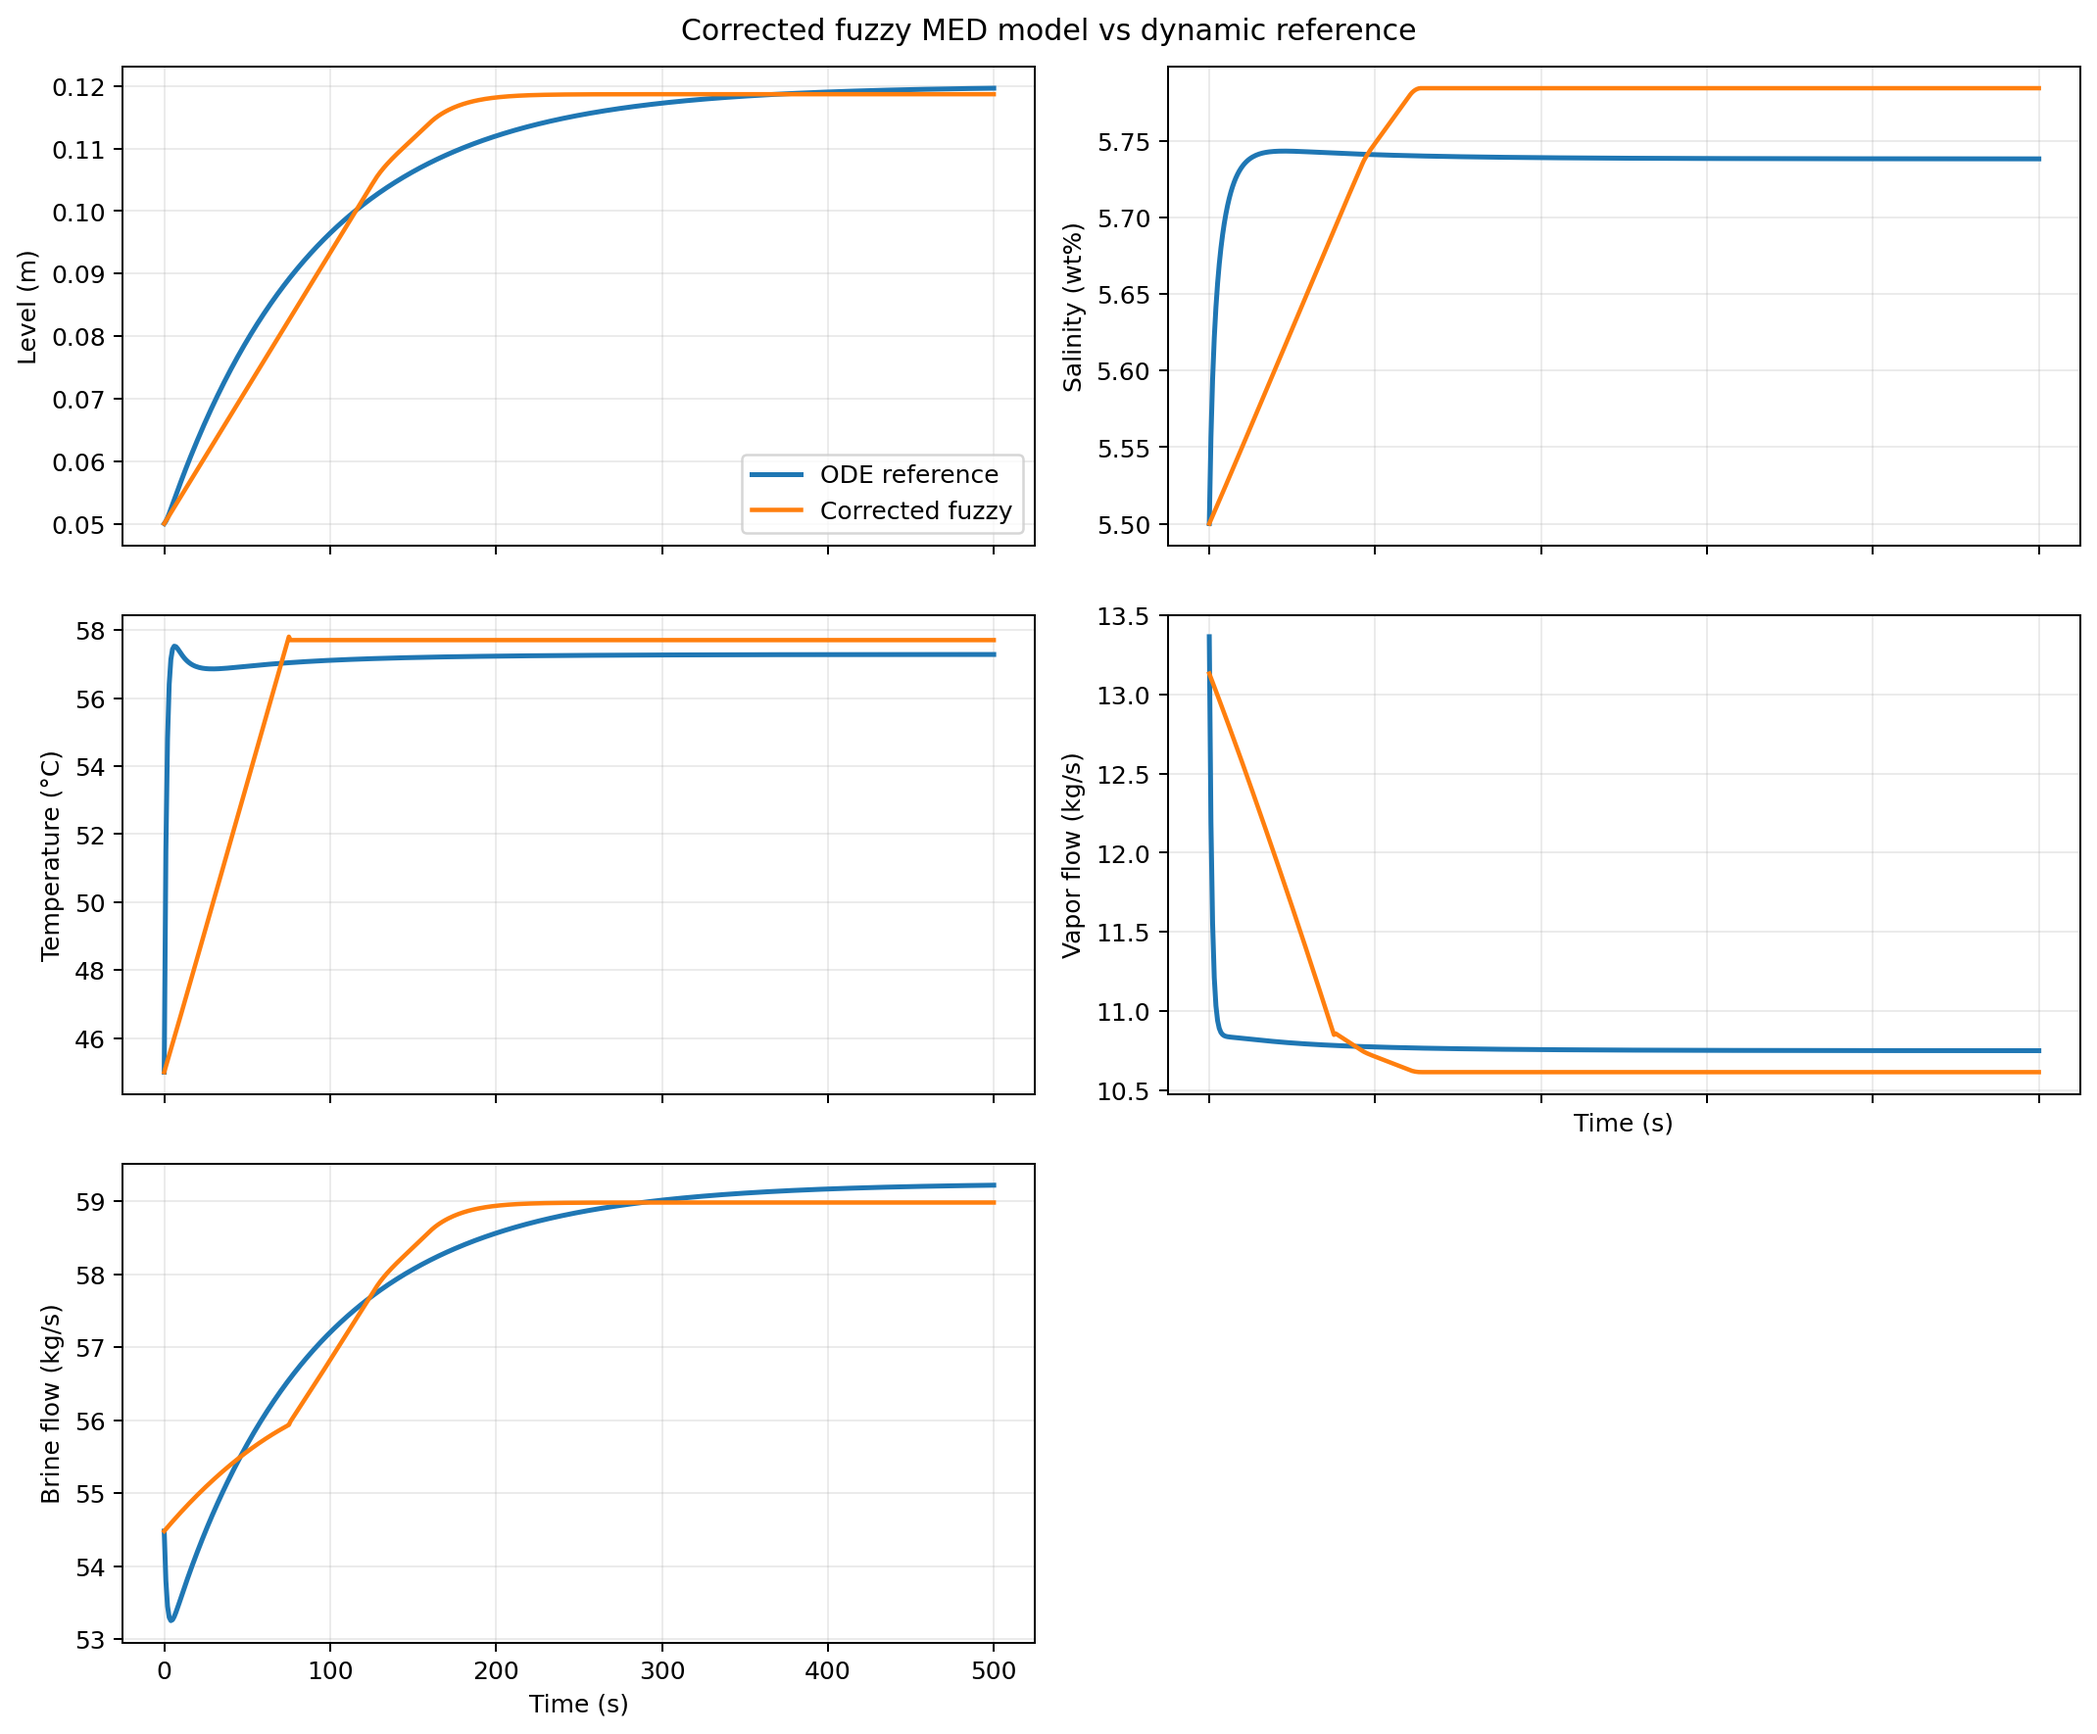
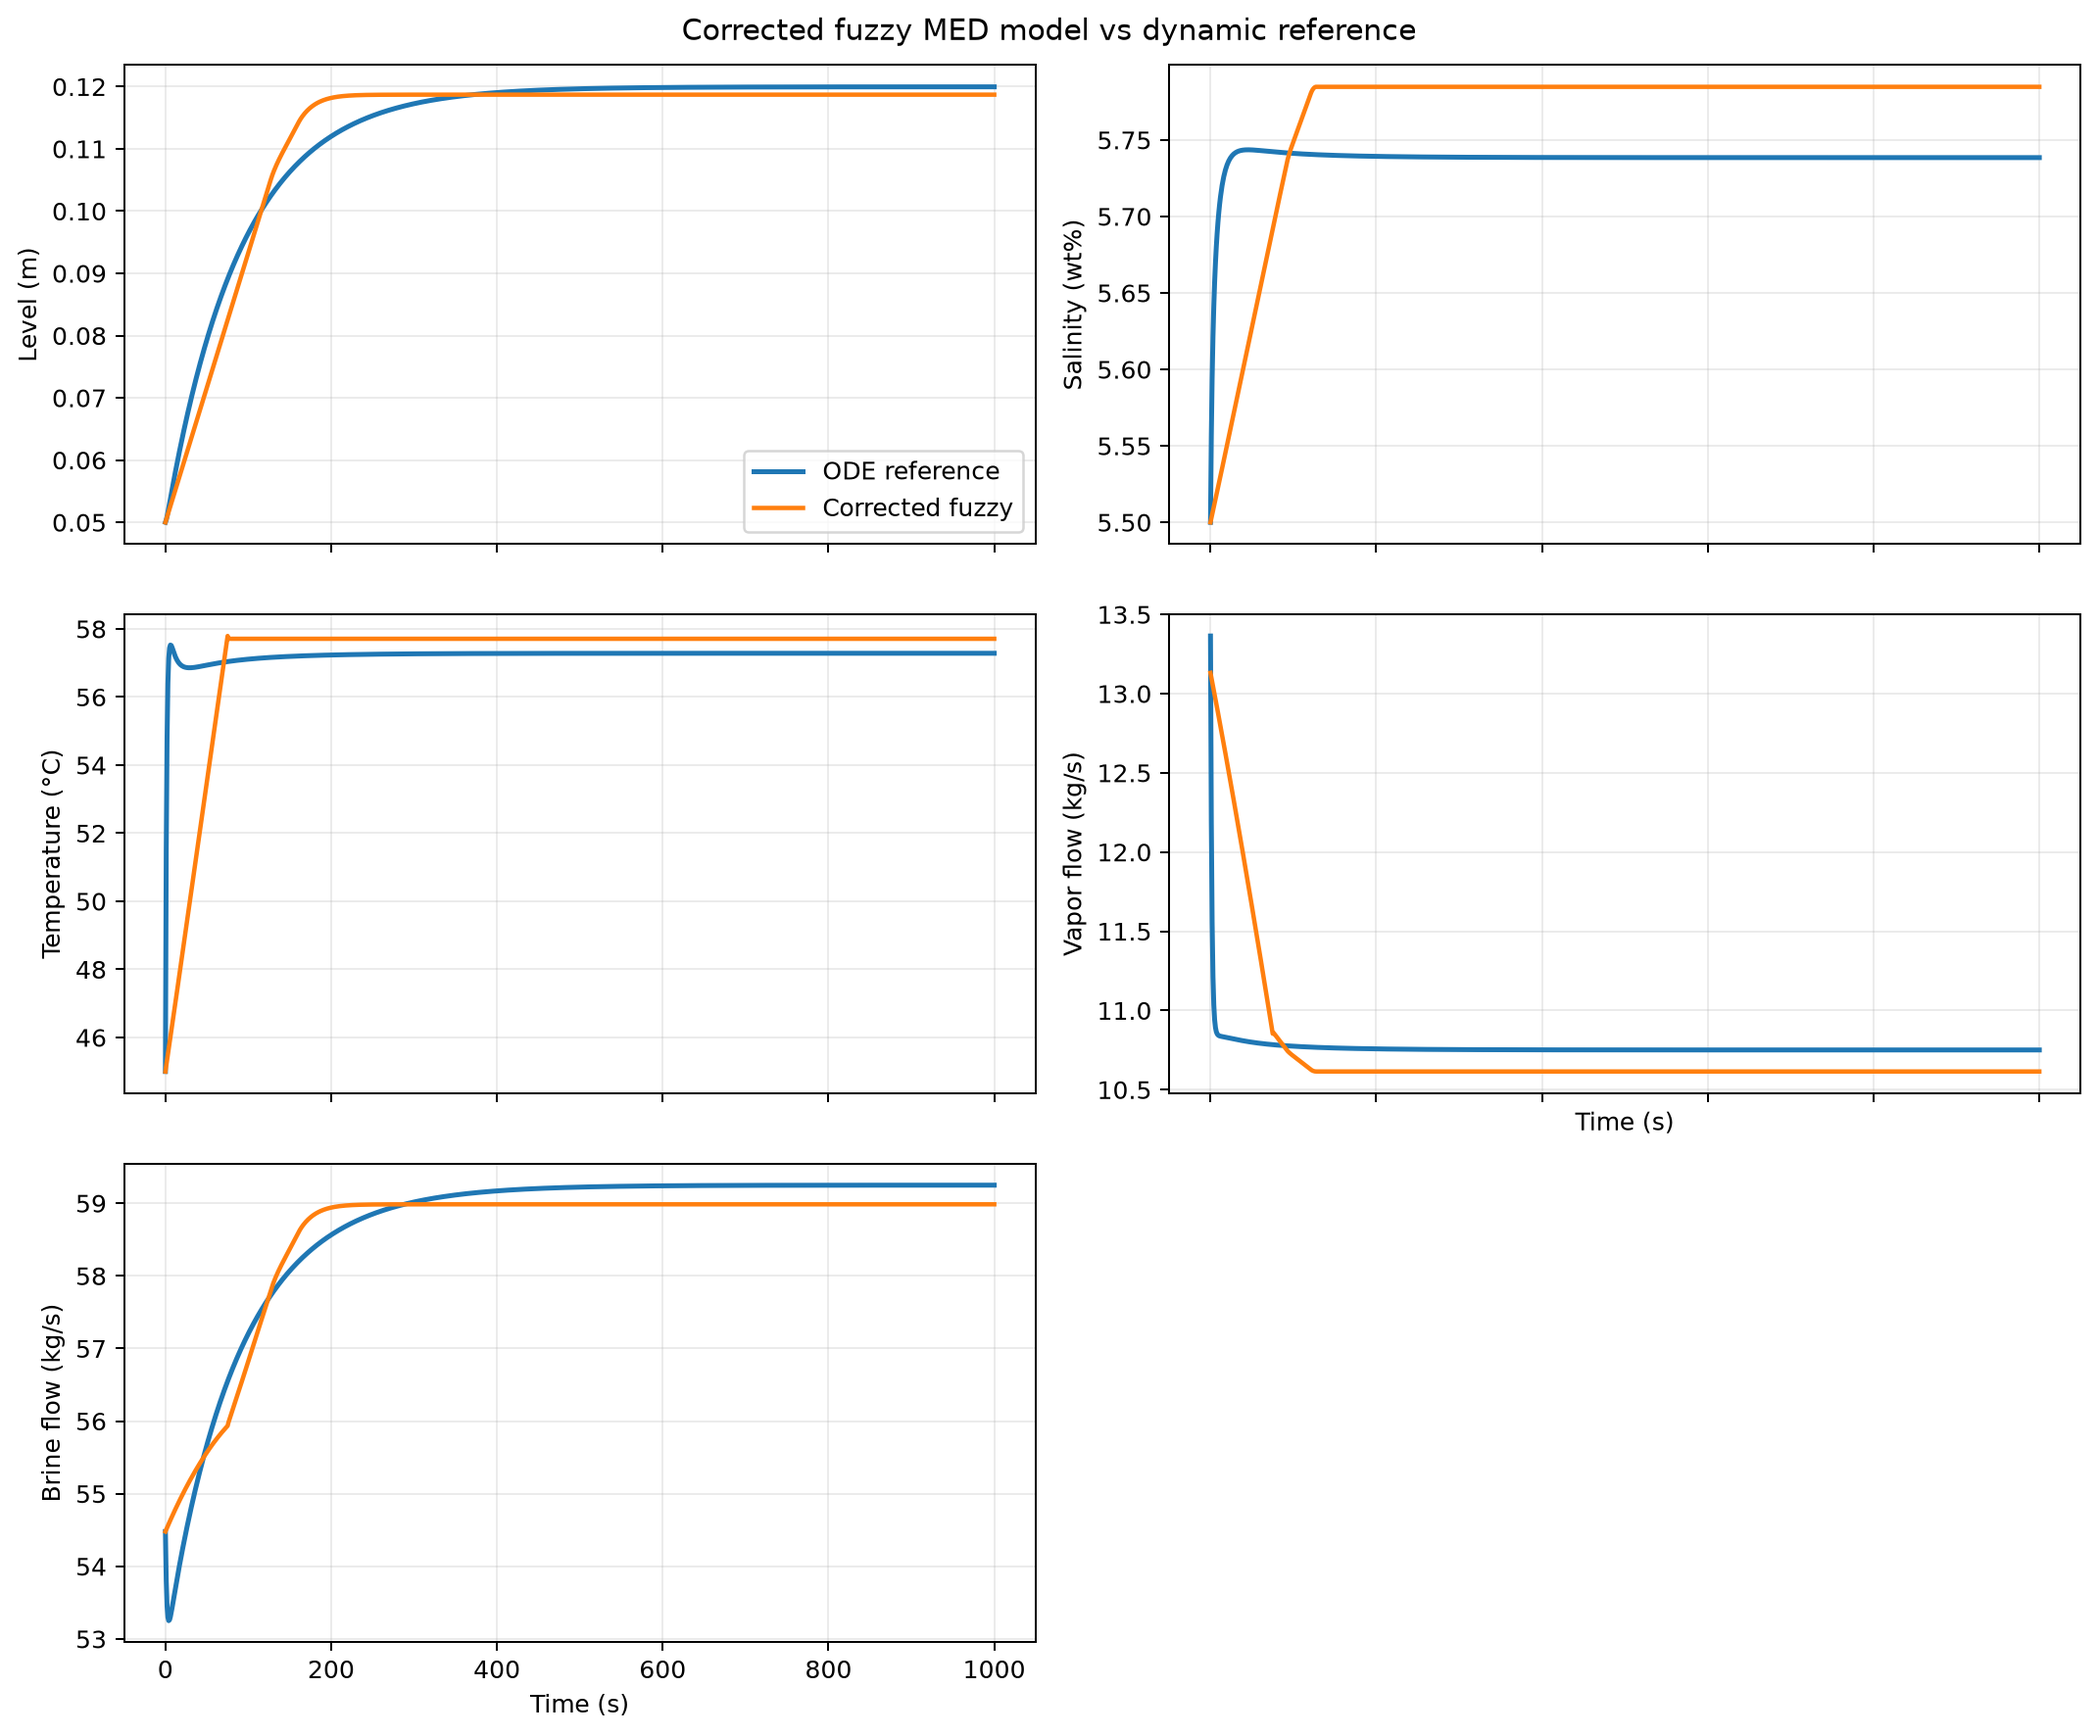
add some comments

diff --git a/tests/test_fuzzy_state_model.py b/tests/test_fuzzy_state_model.py
@@ -1,3 +1,11 @@
+import sys
+from pathlib import Path
+
+FILE_PATH = Path(__file__).resolve()
+ROOT_DIR = next(p for p in FILE_PATH.parents if p.name == "fuuzy_expert_evaporator")
+if str(ROOT_DIR) not in sys.path:
+    sys.path.insert(0, str(ROOT_DIR))
+    
 import numpy as np
 import pytest
 
@@ -10,8 +18,8 @@ from more_accurate_model.problem import Params
 
 
 def make_case(step=None):
-    count = 500
-    time = np.linspace(0.0, 500.0, count)
+    count = 1000
+    time = np.linspace(0.0, 1000.0, count)
     steam = np.full(count, 20.0)
     feed = np.full(count, 40.0)
     feed_temperature = np.full(count, 20.0)

diff --git a/more_accurate_model/fuzzy_model/validate_fuzzy_model.py b/more_accurate_model/fuzzy_model/validate_fuzzy_model.py
@@ -1,5 +1,3 @@
-"""Compare the corrected fuzzy model with the physical ODE baseline."""
-
 import csv
 import sys
 from pathlib import Path
@@ -22,8 +20,8 @@ from more_accurate_model.solver import evaporator_ode_solver
 
 
 def build_case():
-    count = 500
-    time = np.linspace(0.0, 500.0, count)
+    count = 1000
+    time = np.linspace(0.0, 1000.0, count)
     steam = np.full(count, 20.0)
     feed = np.full(count, 40.0)
     feed_temperature = np.full(count, 20.0)

diff --git a/more_accurate_model/fuzzy_model/fuzzy_blocks/salt_update_block.py b/more_accurate_model/fuzzy_model/fuzzy_blocks/salt_update_block.py
@@ -1,15 +1,8 @@
-"""Numerical state update for the fuzzy salinity derivative."""
-
-import numpy as np
-
-
 def salt_update(dx_dt, last_x, dt=1.0):
     if dt <= 0.0:
         raise ValueError("dt must be positive.")
-    return float(np.clip(last_x + dt * dx_dt, 4.0, 8.0))
+    return last_x + dt * dx_dt
 
 
 def salt_updte(dx_dt, last_x, dt=1.0):
-    """Backward-compatible alias for the original misspelled function."""
-
     return salt_update(dx_dt, last_x, dt)

diff --git a/more_accurate_model/fuzzy_model/fuzzy_problem.py b/more_accurate_model/fuzzy_model/fuzzy_problem.py
@@ -1,5 +1,3 @@
-"""Runnable example for the fuzzy evaporator model."""
-
 import sys
 from pathlib import Path
 
@@ -40,7 +38,6 @@ def main(show_plots=True):
         previous_brine_temp=t_bin,
     )
 
-    # Uncomment an assignment to create a 20% step at t = 250 s.
     for sample in range(n_eval // 2, n_eval):
         change_percentage = 0.10
         # w_s[sample] = 20.0 * (1.0 + change_percentage)

diff --git a/more_accurate_model/fuzzy_model/rule_activation.py b/more_accurate_model/fuzzy_model/rule_activation.py
@@ -15,8 +15,6 @@ def calculate_fuzzy_block_output(
     rule_table,
     mod="centroid",
 ):
-    """Evaluate a two-input Mamdani block and return a physical crisp value."""
-
     if len(rule_table) != 5 or any(len(row) != 5 for row in rule_table):
         raise ValueError("rule_table must be a 5 x 5 table.")
     unknown = {label for row in rule_table for label in row} - set(LABELS)

diff --git a/more_accurate_model/fuzzy_model/normaliziation.py b/more_accurate_model/fuzzy_model/normaliziation.py
@@ -1,11 +1,3 @@
-"""Scaling helpers for the normalized fuzzy universe ``[-5, 5]``.
-
-The first item in every range is the operating point, not necessarily the
-midpoint of the lower and upper bounds.  Scaling each side independently keeps
-the operating point exactly at zero and maps both physical bounds exactly to
-the fuzzy-universe bounds.
-"""
-
 import numpy as np
 
 

diff --git a/more_accurate_model/fuzzy_model/fuzzy_blocks/level_update_block.py b/more_accurate_model/fuzzy_model/fuzzy_blocks/level_update_block.py
@@ -1,9 +1,5 @@
-"""Numerical state update for the fuzzy level derivative."""
-
-import numpy as np
-
-
 def level_update(dl_dt, last_l, dt=1.0):
     if dt <= 0.0:
         raise ValueError("dt must be positive.")
-    return float(np.clip(last_l + dt * dl_dt, 0.0, 0.22))
+    return float(last_l + dt * dl_dt)
+    # return float(np.clip(last_l + dt * dl_dt, 0.0, 0.22))

diff --git a/more_accurate_model/fuzzy_model/fuzzy_blocks/temperature_update_block.py b/more_accurate_model/fuzzy_model/fuzzy_blocks/temperature_update_block.py
@@ -1,9 +1,4 @@
-"""Numerical state update for the fuzzy temperature derivative."""
-
-import numpy as np
-
-
 def temperature_update(dT_dt, last_T, dt=1.0):
     if dt <= 0.0:
         raise ValueError("dt must be positive.")
-    return float(np.clip(last_T + dt * dT_dt, 40.0, 65.0))
+    return last_T + dt * dT_dt

diff --git a/more_accurate_model/fuzzy_model/fuzzy_blocks/salt_balance_block.py b/more_accurate_model/fuzzy_model/fuzzy_blocks/salt_balance_block.py
@@ -8,10 +8,8 @@ DIFFERENCE_RULES = [
     ["PL", "PL", "PL", "PS", "Z"],
 ]
 
-
+# E_s
 def salt_balance(i_s_in, w_b, x):
-    """Infer the salt accumulation signal from inlet minus outlet salt."""
-
     return ra.calculate_fuzzy_block_output(
         i_s_in,
         w_b * x,

diff --git a/more_accurate_model/fuzzy_model/fuzzy_blocks/temperature_block.py b/more_accurate_model/fuzzy_model/fuzzy_blocks/temperature_block.py
@@ -8,10 +8,8 @@ INVERSE_INVENTORY_RULES = [
     ["PL", "PL", "PL", "PS", "PS"],
 ]
 
-
+#dT/dt
 def temperature_derivative(e_h, l):
-    """Infer dT/dt; liquid level changes thermal-inertia magnitude."""
-
     return ra.calculate_fuzzy_block_output(
         e_h,
         l,

diff --git a/more_accurate_model/fuzzy_model/fuzzy_blocks/salt_block.py b/more_accurate_model/fuzzy_model/fuzzy_blocks/salt_block.py
@@ -8,10 +8,8 @@ INVERSE_INVENTORY_RULES = [
     ["PL", "PL", "PL", "PS", "PS"],
 ]
 
-
+# dx/dt
 def salt_derivative(e_s, l):
-    """Infer dx/dt; level changes magnitude but never reverses its sign."""
-
     return ra.calculate_fuzzy_block_output(
         e_s,
         l,

diff --git a/more_accurate_model/fuzzy_model/fuzzy_blocks/outlet_enthalpy_block.py b/more_accurate_model/fuzzy_model/fuzzy_blocks/outlet_enthalpy_block.py
@@ -11,7 +11,7 @@ ADDITION_RULES = [
 VAPOR_ENERGY_RANGE = [29184.44, 27000.0, 31370.0]
 LIQUID_ENERGY_RANGE = [30440.22, 25800.0, 35000.0]
 
-
+# E_h_out
 def outlet_energy(w_v, w_b, temperature):
     vapor_energy = ra.calculate_fuzzy_block_output(
         w_v,
